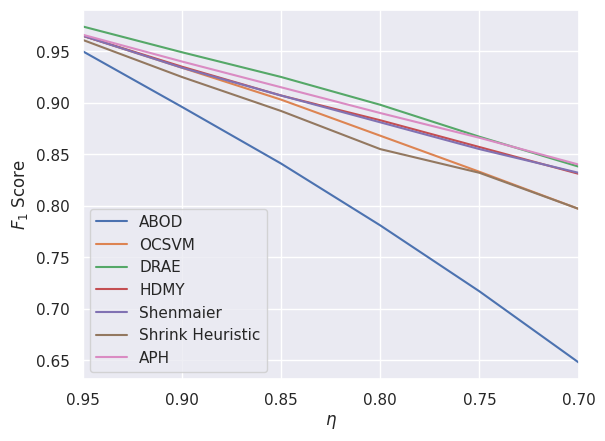
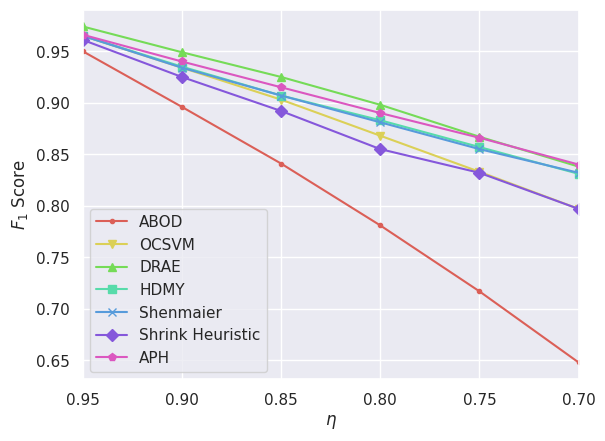
plot

diff --git a/src/mnist_report.py b/src/mnist_report.py
@@ -1,6 +1,7 @@
 import pandas as pd
 import numpy as np
 import matplotlib.pyplot as plt
+import seaborn as sns
 
 import plot_settings
 
@@ -46,11 +47,16 @@ for heuristic in heuristics:
 
 
 F1_df = pd.DataFrame.from_dict(F1_dict)
-print(F1_df)
+
 fig, ax = plt.subplots()
+
+colours = sns.color_palette("hls", 7)
+markers = [".", "v", "^", "s", "x", "D", "p"]
+i = 0
 for column in F1_df:
     if column != "$\eta$":
-        plt.plot(eta_list, F1_df[column], label=column)
+        plt.plot(eta_list, F1_df[column], label=column, marker=markers[i], c=colours[i])
+        i += 1
 
 ax.set_xlim(0.95, 0.7)
 plt.xlabel("$\eta$")

diff --git a/src/test.py b/src/test.py
@@ -1,0 +1,4 @@
+import seaborn as sns
+
+colours = sns.color_palette("hls", 7)
+print(colours)
